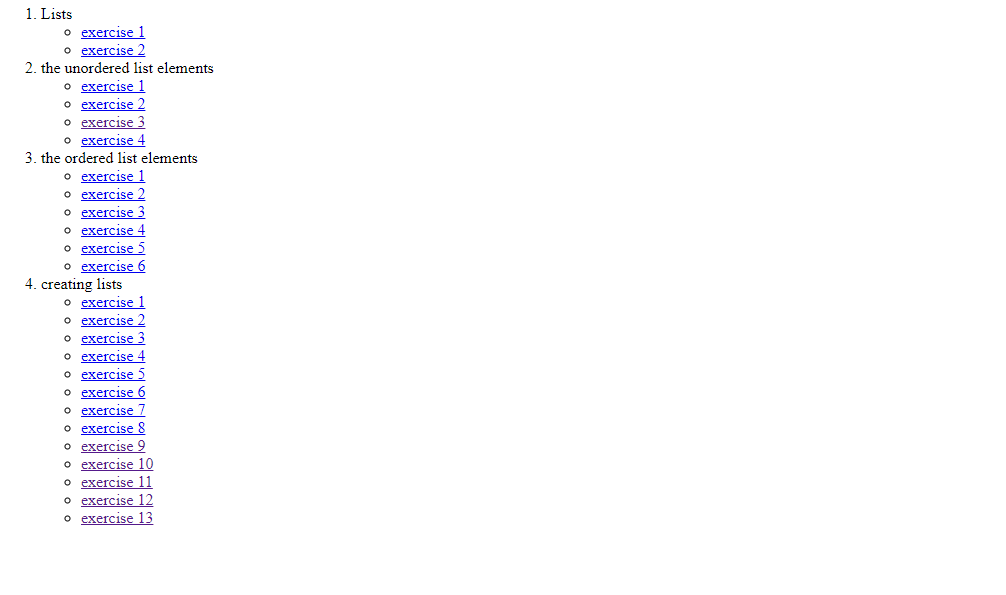
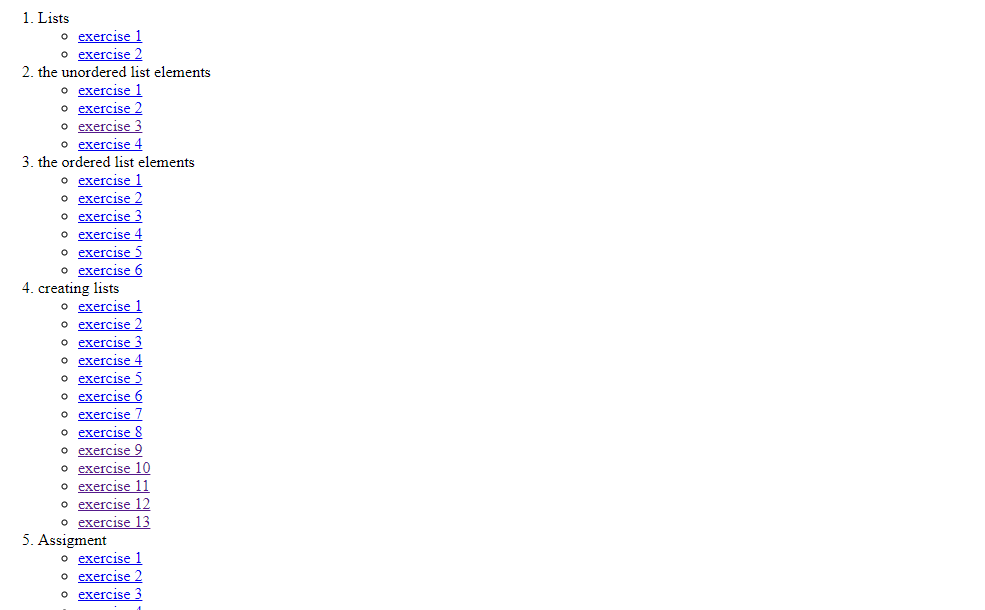
feat: finish assigment

Changed region(s): [[0.0, 0.0, 0.2132, 1.0]]

diff --git a/index.html b/index.html
@@ -186,6 +186,35 @@
         </a>
         </li>
         </ul>
+        <li>Assigment</li>
+        <ul>
+            <li>
+                <a href="assignment/exercise_1.html">
+                    exercise 1
+            </a>
+        </li>
+        </ul>
+        <ul>
+            <li>
+                <a href="assignment/exercise_2.html">
+                    exercise 2
+            </a>
+        </li>
+        </ul>
+        <ul>
+            <li>
+                <a href="assignment/exercise_3.html">
+                    exercise 3
+            </a>
+        </li>
+        </ul>
+        <ul>
+            <li>
+                <a href="assignment/exercise_4.html">
+                    exercise 4
+            </a>
+        </li>
+        </ul>
     </ol>
 </body>
 </html>

diff --git a/assignment/exercise_4.html b/assignment/exercise_4.html
@@ -1,0 +1,17 @@
+<!DOCTYPE html>
+<html lang="en">
+<head>
+    <meta charset="UTF-8">
+    <meta name="viewport" content="width=device-width, initial-scale=1.0">
+    <title>Exercise 4</title>
+</head>
+<body>
+    <ol>
+        <li>Monster Hunter Rise: Sunbreak</li>
+        <li>Monster Hunter 4 Ultimate</li>
+        <li>Touhou 8: Imperishable Night</li>
+        <li>Bug Fables</li>
+        <li>Terraria</li>
+    </ol>
+</body>
+</html>

diff --git a/assignment/exercise_2.html b/assignment/exercise_2.html
@@ -1,0 +1,17 @@
+<!DOCTYPE html>
+<html lang="en">
+<head>
+    <meta charset="UTF-8">
+    <meta name="viewport" content="width=device-width, initial-scale=1.0">
+    <title>Exercise 2</title>
+</head>
+<body>
+    <ol>
+        <li>Go home</li>
+        <li>Make Lunch</li>
+        <li>Finish Homework</li>
+        <li>Clean the House</li>
+        <li>Sleep</li>
+      </ol>
+</body>
+</html>

diff --git a/assignment/exercise_1.html b/assignment/exercise_1.html
@@ -1,0 +1,16 @@
+<!DOCTYPE html>
+<html lang="en">
+<head>
+    <meta charset="UTF-8">
+    <meta name="viewport" content="width=device-width, initial-scale=1.0">
+    <title>Exercise 1</title>
+</head>
+<body>
+    <ul>
+        <li>Pizza</li>
+        <li>Sushi</li>
+        <li>Meat in General</li>
+        <li>Souffle</li>
+    </ul>
+</body>
+</html>

diff --git a/assignment/exercise_3.html b/assignment/exercise_3.html
@@ -1,0 +1,15 @@
+<!DOCTYPE html>
+<html lang="en">
+<head>
+    <meta charset="UTF-8">
+    <meta name="viewport" content="width=device-width, initial-scale=1.0">
+    <title>Exercise 3</title>
+</head>
+<body>
+    <ul>
+        <li>Panama</li>
+        <li>United States</li>
+        <li>South Korea</li>
+    </ul>
+</body>
+</html>
